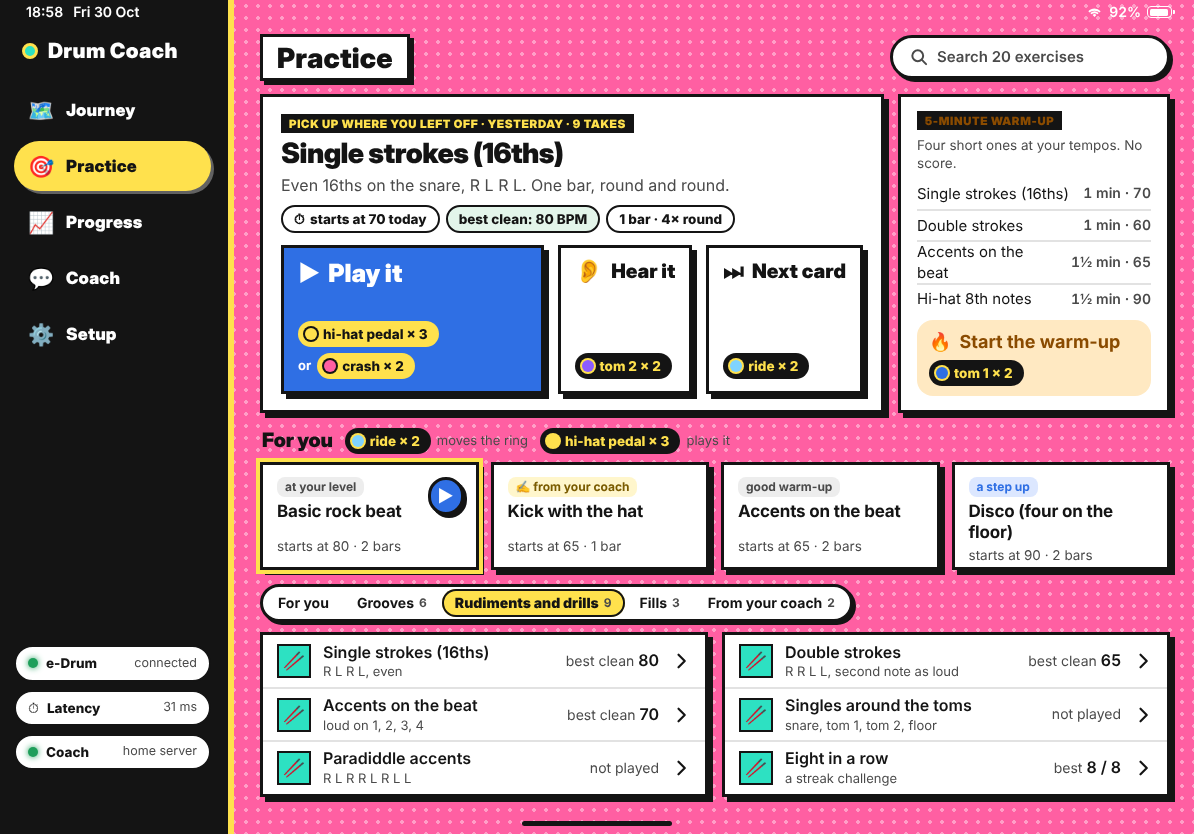
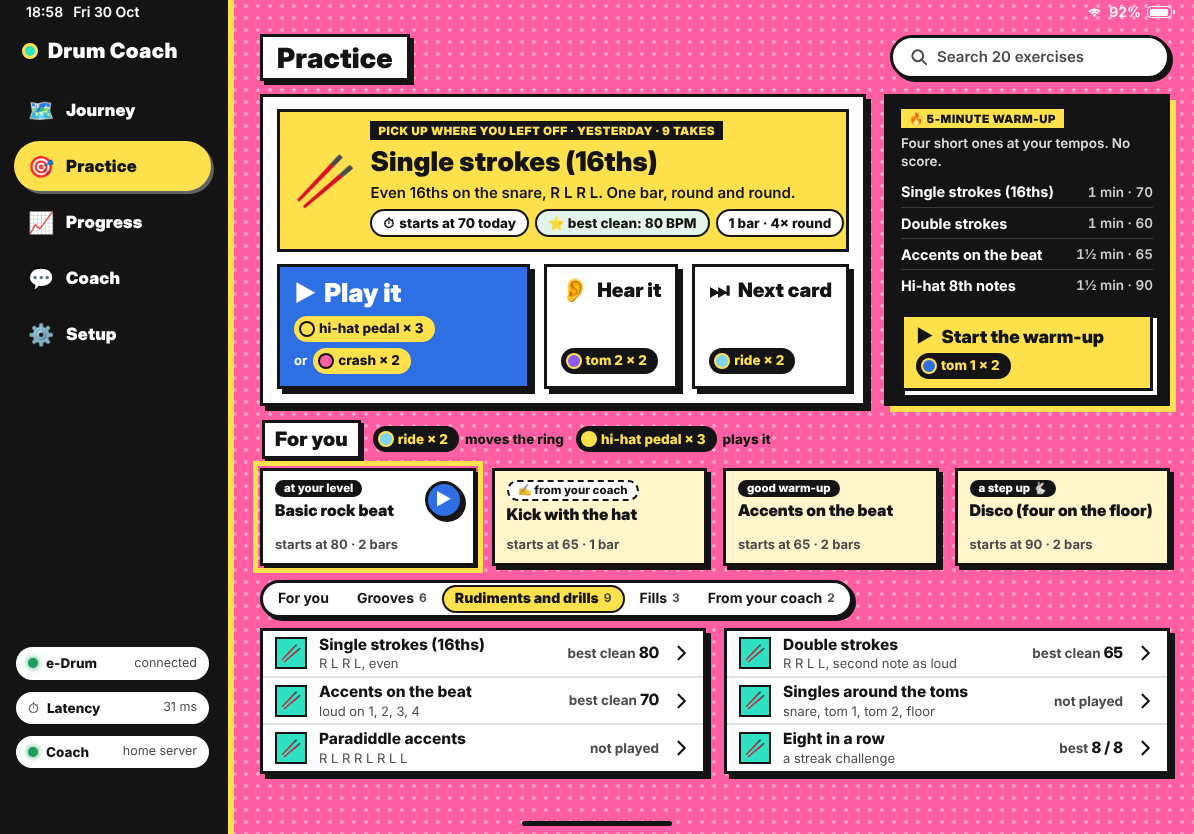
iPad mockups, web look: Practice
Claude-Session: https://claude.ai/code/session_012qCzBwXtPvMyyk6zKAziwn

diff --git a/docs/mockups/ipad/practice.html b/docs/mockups/ipad/practice.html
@@ -6,43 +6,43 @@
 <title>Practice · iPad mockup</title>
 <link rel="stylesheet" href="ipad.css">
 <style>
-  .row1 { display: grid; grid-template-columns: minmax(0, 1fr) 272px; gap: 14px; }
-  .last { padding: 16px 18px; display: flex; flex-direction: column; gap: 12px; }
-  .last h2 { font-size: 28px; letter-spacing: -.02em; margin: 2px 0; }
-  .last .d { font-size: 16px; color: var(--label2); }
-  .last .pills { display: flex; gap: 6px; margin-top: 8px; }
-  .last .moves { grid-template-columns: 2.1fr 1fr 1fr; flex: 1; }
-  .last .move { min-height: 84px; padding: 12px 14px; }
-  .last { justify-content: space-between; }
-  .last .move.go b { font-size: 25px; }
+  .row1 { display: grid; grid-template-columns: minmax(0, 1fr) 286px; gap: 18px; }
+  .last { padding: 12px 14px 14px; display: flex; flex-direction: column; gap: 12px; }
+  .lastTop { display: grid; grid-template-columns: auto minmax(0, 1fr); gap: 2px 14px; align-items: center; background: var(--pop); border: 3px solid var(--line); padding: 8px 14px; }
+  .lastTop .big { font-size: 50px; line-height: 1; grid-row: span 3; }
+  .last h2 { font-size: 27px; margin: 4px 0 2px; }
+  .last .d { font-size: 15px; font-weight: 600; }
+  .last .pills { display: flex; gap: 6px; margin-top: 6px; }
+  .last .moves { grid-template-columns: 2.1fr 1fr 1fr; }
+  .last .move { min-height: 84px; }
+  .last .move.go b { font-size: 26px; }
   .last .move b { font-size: 20px; white-space: nowrap; }
-  .warm { padding: 14px 16px; display: flex; flex-direction: column; gap: 6px; }
-  .warm h3 { font-size: 19px; }
-  .warm p.s { font-size: 13.5px; color: var(--label2); }
-  .warm .list .li { padding: 0; min-height: 31px; font-size: 15px; --inset: 0px; }
-  .warm .list .li .val { font-size: 14px; }
-  .warmGo { margin-top: auto; background: var(--orangeSoft); border-radius: 16px; padding: 10px 12px; display: flex; flex-direction: column; gap: 6px; }
-  .warmGo b { font-size: 18px; display: flex; align-items: center; gap: 8px; color: var(--orangeInk); }
-  .warmGo b .ic { width: 20px; height: 20px; }
-  .forHead { display: flex; align-items: center; gap: 12px; margin: 14px 2px 8px; }
-  .forHead h3 { font-size: 20px; letter-spacing: -.01em; }
-  .forHead .gs { display: flex; gap: 6px; align-items: center; font-size: 13px; color: var(--label2); }
-  .cards4 { display: grid; grid-template-columns: repeat(4, minmax(0, 1fr)); gap: 12px; }
-  .fy { padding: 12px 14px; height: 108px; display: flex; flex-direction: column; gap: 4px; position: relative; }
-  .fy.ring { box-shadow: 0 0 0 4px var(--yellow), var(--shadow); }
-  .fy .tag { align-self: flex-start; font-size: 12px; font-weight: 700; padding: 2px 8px; border-radius: 8px; background: var(--fill); color: var(--label2); }
-  .fy .tag.up { background: var(--tintSoft); color: var(--tint); }
-  .fy .tag.coach { background: var(--yellowSoft); color: #7A5B00; }
-  .fy b { font-size: 17px; letter-spacing: -.01em; line-height: 1.2; }
-  .fy span.m { font-size: 13.5px; color: var(--label2); margin-top: auto; }
-  .fy .play { position: absolute; right: 12px; top: 12px; }
+  .warm { padding: 12px 14px; display: flex; flex-direction: column; gap: 6px; }
+  .warm .kicker { background: var(--pop); color: var(--line); }
+  .warm p.s { font-size: 13.5px; color: #ddd; font-weight: 600; }
+  .warm .list .li { padding: 0; min-height: 31px; font-size: 14.5px; font-weight: 700; color: #fff; }
+  .warm .list .li + .li { border-top: 1px solid #ffffff2a; }
+  .warm .list .li .val { font-size: 13.5px; color: #ccc; }
+  .warmGo { margin-top: auto; background: var(--pop); color: var(--line); border: 3px solid var(--line); box-shadow: 4px 4px 0 #fff; padding: 9px 12px; display: flex; flex-direction: column; gap: 6px; }
+  .warmGo b { font: 900 18px var(--display); display: flex; align-items: center; gap: 8px; }
+  .forHead { display: flex; align-items: center; gap: 12px; margin: 14px 2px 9px; }
+  .forHead h3 { font-size: 20px; background: var(--panel); border: 3px solid var(--line); box-shadow: 3px 3px 0 var(--line); padding: 3px 10px; }
+  .forHead .gs { display: flex; gap: 6px; align-items: center; font-size: 13.5px; font-weight: 800; }
+  .cards4 { display: grid; grid-template-columns: repeat(4, minmax(0, 1fr)); gap: 16px; }
+  .fy { padding: 9px 12px; height: 98px; display: flex; flex-direction: column; gap: 4px; position: relative; background: var(--panel2); box-shadow: 4px 4px 0 var(--line); }
+  .fy.ring { outline: 5px solid var(--pop); outline-offset: 2px; background: var(--panel); }
+  .fy .tag { align-self: flex-start; font-size: 11.5px; font-weight: 800; padding: 1px 9px; border-radius: 999px; background: var(--night); color: #fff; }
+  .fy .tag.coach { background: var(--panel); color: var(--line); border: 2px dashed var(--line); }
+  .fy b { font: 900 16px/1.15 var(--display); }
+  .fy span.m { font-size: 13px; font-weight: 700; color: var(--muted); margin-top: auto; }
+  .fy .play { position: absolute; right: 10px; top: 10px; width: 38px !important; height: 38px; font-size: 14px; }
   .lib { display: flex; align-items: center; gap: 12px; margin: 14px 0 10px; }
-  .cols { display: grid; grid-template-columns: 1fr 1fr; gap: 14px; }
-  .cols .li { min-height: 52px; }
-  .cols .li b { font-weight: 600; font-size: 16px; }
-  .cols .li .sym { background: var(--snare); }
-  .best { font-size: 14px; color: var(--label2); white-space: nowrap; }
-  .best b { color: var(--label); font-weight: 600; }
+  .cols { display: grid; grid-template-columns: 1fr 1fr; gap: 18px; }
+  .cols .li { min-height: 44px; padding: 3px 12px; }
+  .cols .li b { font-size: 15.5px; }
+  .cols .li .sym { background: var(--cyan); width: 32px; height: 32px; font-size: 17px; }
+  .best { font-size: 13.5px; font-weight: 700; color: var(--muted); white-space: nowrap; }
+  .best b { color: var(--line); font-family: var(--display); }
 </style>
 </head>
 <body>
@@ -72,11 +72,14 @@
 
     <div class="row1">
       <section class="card last">
-        <div>
-          <div class="kicker tint">Pick up where you left off · yesterday · 9 takes</div>
-          <h2>Single strokes (16ths)</h2>
-          <p class="d">Even 16ths on the snare, R L R L. One bar, round and round.</p>
-          <div class="pills"><span class="pill"><span class="em">⏱</span>starts at 70 today</span><span class="pill green">best clean: 80 BPM</span><span class="pill">1 bar · 4× round</span></div>
+        <div class="lastTop">
+          <span class="big">🥢</span>
+          <div>
+            <div class="kicker">Pick up where you left off · yesterday · 9 takes</div>
+            <h2>Single strokes (16ths)</h2>
+            <p class="d">Even 16ths on the snare, R L R L. One bar, round and round.</p>
+            <div class="pills"><span class="pill"><span class="em">⏱</span>starts at 70 today</span><span class="pill green">⭐ best clean: 80 BPM</span><span class="pill">1 bar · 4× round</span></div>
+          </div>
         </div>
         <div class="moves">
           <div class="move go"><b><span class="em">▶</span>Play it</b><div class="gs"><span class="gest on-tint g-hhp">hi-hat pedal × 3</span><span style="display:inline-flex;gap:6px;align-items:center"><span class="or">or</span><span class="gest on-tint g-crash">crash × 2</span></span></div></div>
@@ -85,8 +88,8 @@
         </div>
       </section>
 
-      <section class="card warm">
-        <div class="kicker" style="color:var(--orangeInk)">5-minute warm-up</div>
+      <section class="card night warm">
+        <div class="kicker">🔥 5-minute warm-up</div>
         <p class="s">Four short ones at your tempos. No score.</p>
         <div class="list">
           <div class="li"><span class="grow">Single strokes (16ths)</span><span class="val num">1 min · 70</span></div>
@@ -94,7 +97,7 @@
           <div class="li"><span class="grow">Accents on the beat</span><span class="val num">1½ min · 65</span></div>
           <div class="li"><span class="grow">Hi-hat 8th notes</span><span class="val num">1½ min · 90</span></div>
         </div>
-        <div class="warmGo"><b><span class="em">🔥</span>Start the warm-up</b><div><span class="gest g-tom1">tom 1 × 2</span></div></div>
+        <div class="warmGo"><b><span class="em">▶</span>Start the warm-up</b><div><span class="gest g-tom1">tom 1 × 2</span></div></div>
       </section>
     </div>
 
@@ -103,10 +106,10 @@
       <div class="gs"><span class="gest g-ride">ride × 2</span>moves the ring<span class="gest g-hhp" style="margin-left:6px">hi-hat pedal × 3</span>plays it</div>
     </div>
     <div class="cards4">
-      <div class="card fy ring"><span class="tag">at your level</span><b>Basic rock beat</b><span class="m">starts at 80 · 2 bars</span><span class="play btn round sm" style="width:36px;background:var(--tint);color:#fff"><span class="em">▶</span></span></div>
+      <div class="card fy ring"><span class="tag">at your level</span><b>Basic rock beat</b><span class="m">starts at 80 · 2 bars</span><span class="play btn round fill"><span class="em">▶</span></span></div>
       <div class="card fy"><span class="tag coach">✍ from your coach</span><b>Kick with the hat</b><span class="m">starts at 65 · 1 bar</span></div>
       <div class="card fy"><span class="tag">good warm-up</span><b>Accents on the beat</b><span class="m">starts at 65 · 2 bars</span></div>
-      <div class="card fy"><span class="tag up">a step up</span><b>Disco (four on the floor)</b><span class="m">starts at 90 · 2 bars</span></div>
+      <div class="card fy"><span class="tag">a step up 🐇</span><b>Disco (four on the floor)</b><span class="m">starts at 90 · 2 bars</span></div>
     </div>
 
     <div class="lib">
